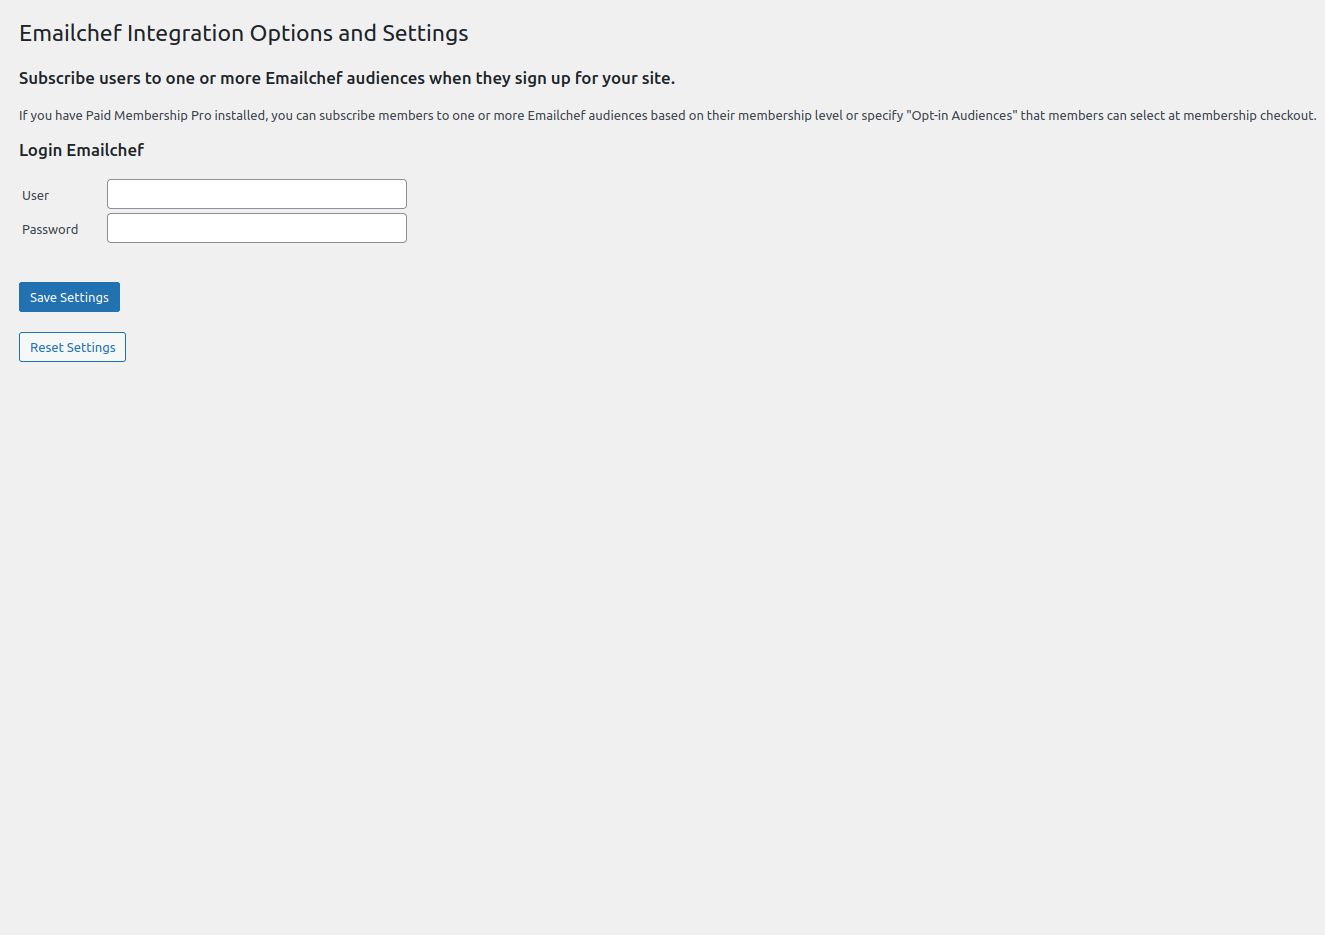
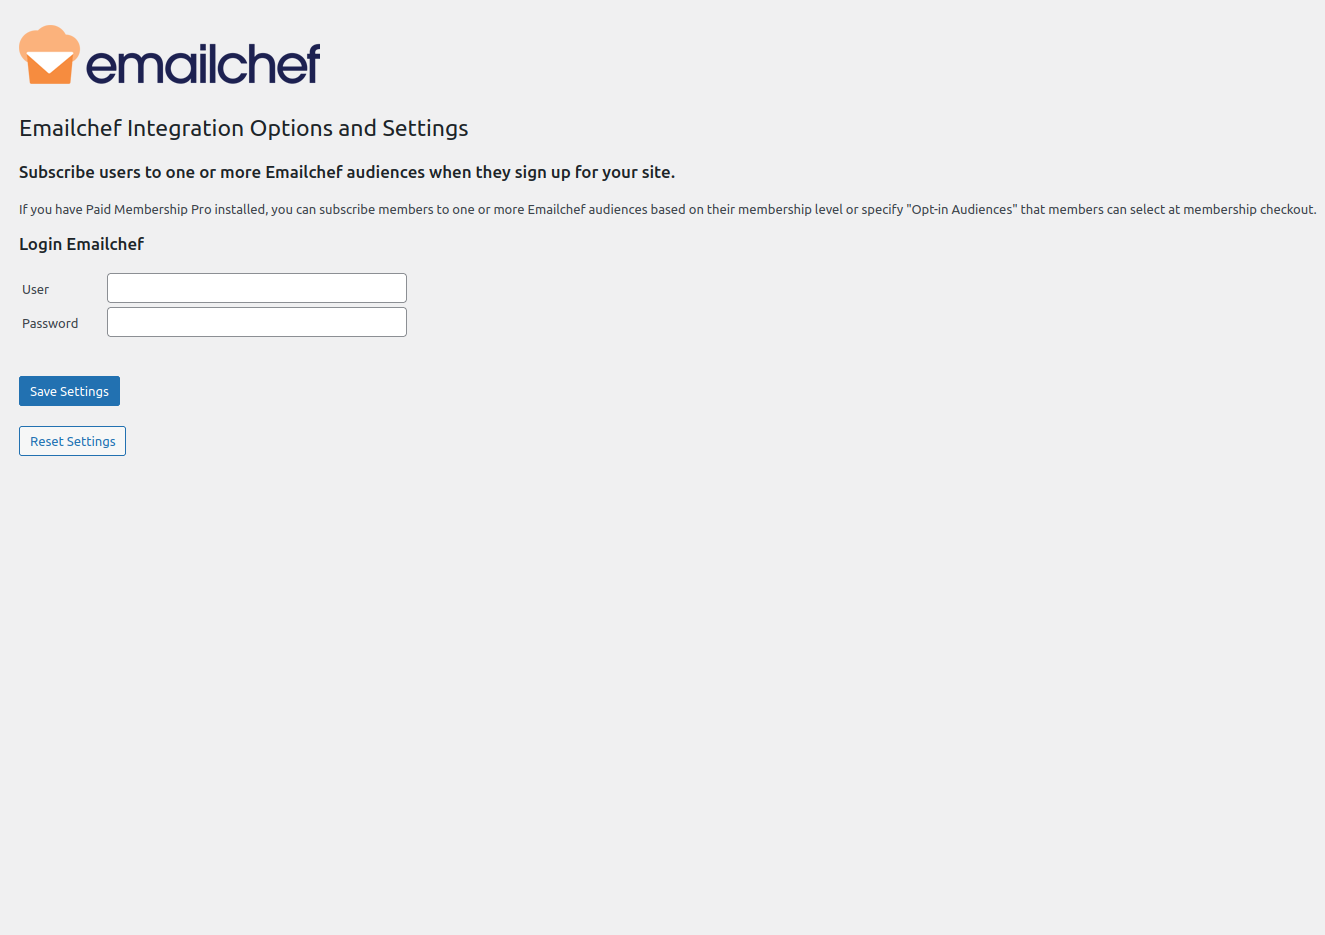
Bump to v1.2.0

diff --git a/emailchef-add-on-for-pmp.php b/emailchef-add-on-for-pmp.php
@@ -4,8 +4,8 @@
  * Plugin URI: https://emailchef.com/it/add-on-emailchef-per-wordpress-paid-memberships-pro/
  * Description: Sync your WordPress users and members with Emaiclhef audiences.
  * Author: edisplayit
- * Author URI: https://www.dueclic.com
- * Version: 1.1.0
+ * Author URI: https://www.emailchef.com
+ * Version: 1.2.0
  * Text Domain: emailchef-add-on-for-pmp
  * Domain Path: /languages/
  * Requires at least: 6.0
@@ -193,6 +193,9 @@ function pmproecaddon_options_page() {
 
 	?>
     <div class="wrap pmproecaddon-options">
+
+        <img src="<?php echo plugins_url('img/logo.png', __FILE__); ?>" alt="Emailchef">
+
         <h1><?php esc_html_e( 'Emailchef Integration Options and Settings', 'emailchef-add-on-for-pmp' ); ?></h1>
         <h2><?php esc_html_e( 'Subscribe users to one or more Emailchef audiences when they sign up for your site.', 'emailchef-add-on-for-pmp' ); ?></h2>
         <label><?php esc_html_e( 'If you have Paid Membership Pro installed, you can subscribe members to one or more Emailchef audiences based on their membership level or specify "Opt-in Audiences" that members can select at membership checkout.', 'emailchef-add-on-for-pmp' ); ?></label>

diff --git a/.wordpress-org/readme/README.md b/.wordpress-org/readme/README.md
@@ -1,10 +1,10 @@
 === Emailchef Add On for Paid Memberships Pro ===
 Contributors: edisplayit, dueclic
-Donate link: https://www.dueclic.com
+Donate link: https://www.emailchef.com
 Tags: paid memberships pro, pmpro, emailchef, email marketing
 Requires at least: 6.0
 Tested up to: 6.5
-Stable tag: 1.1.0
+Stable tag: 1.2.0
 Requires PHP: 7.0
 License: GPLv2
 License URI: https://www.gnu.org/licenses/gpl-2.0.html
@@ -62,4 +62,5 @@ Please visit [our support site at https://www.paidmembershipspro.com](http://www
 
 ## Changelog
 
+* 1.2.0 Small fixes
 * 1.1.0 Added assets and screenshots
